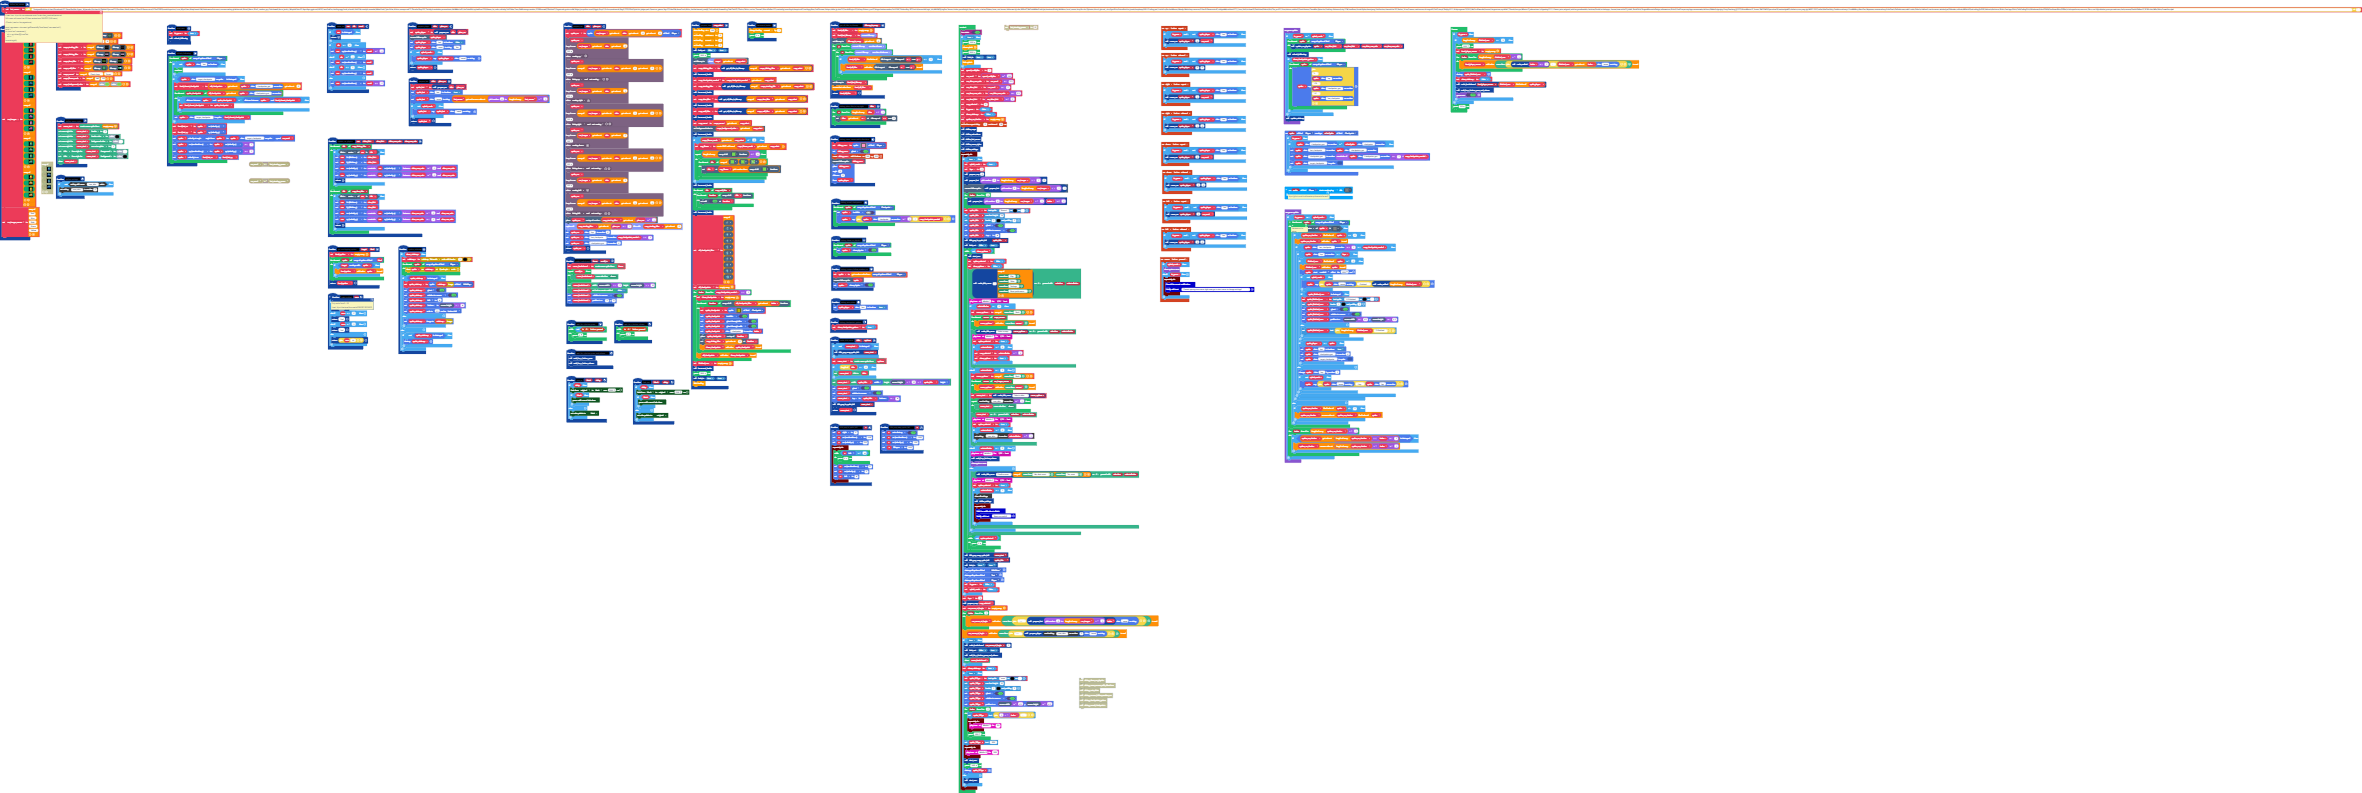
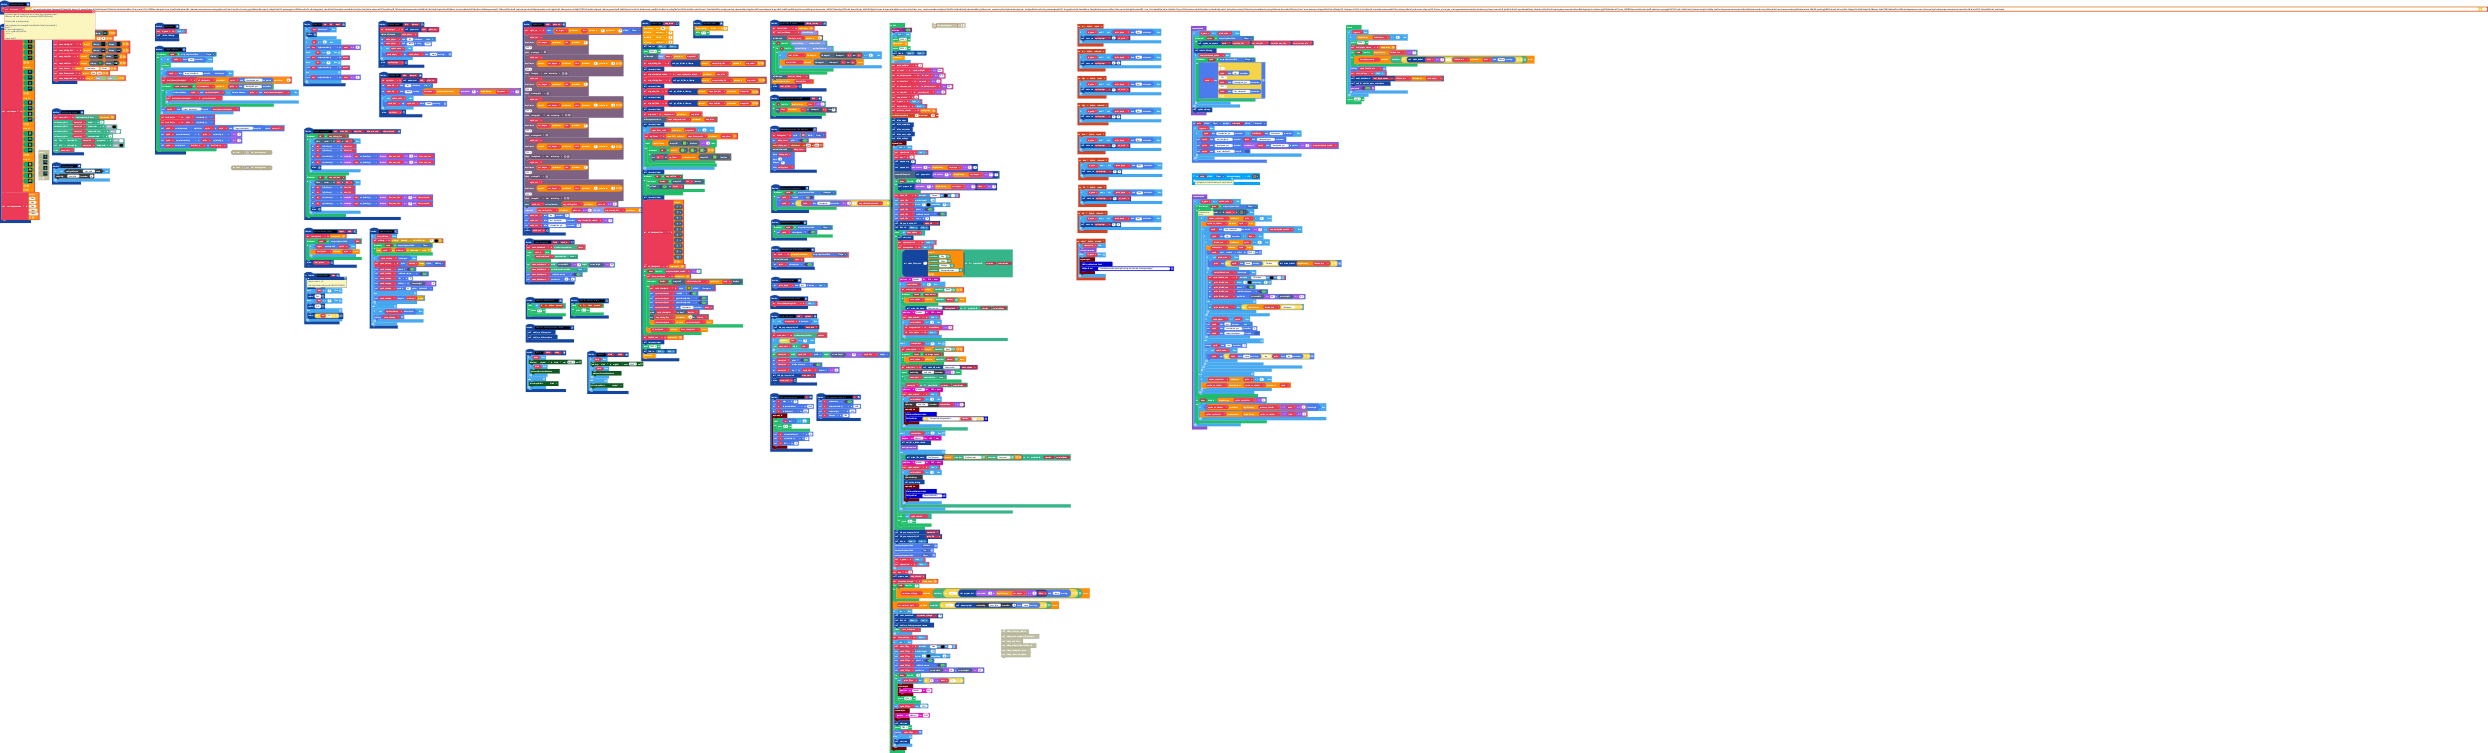
Notify on skin change

Changed region(s): [[0.0, 0.0, 0.9272, 1.0]]

diff --git a/main.ts b/main.ts
@@ -481,7 +481,7 @@ controller.menu.onEvent(ControllerButtonEvent.Pressed, function () {
         game.showSystemMenu()
     } else if (in_game) {
         timer.background(function () {
-            Notification.cancelNotification()
+            Notification.waitForNotificationFinish()
             Notification.notify("Cannot open system menu right now, go to start menu to change settings!")
         })
     }
@@ -737,6 +737,10 @@ timer.background(function () {
                         option_selected = true
                         if (selectedIndex > 0) {
                             blockSettings.writeNumber("user_skin", selectedIndex - 1)
+                            timer.background(function () {
+                                Notification.waitForNotificationFinish()
+                                Notification.notify("Successfully changed skin to " + selection + "!")
+                            })
                         }
                     })
                 } else if (selectedIndex == 2) {
